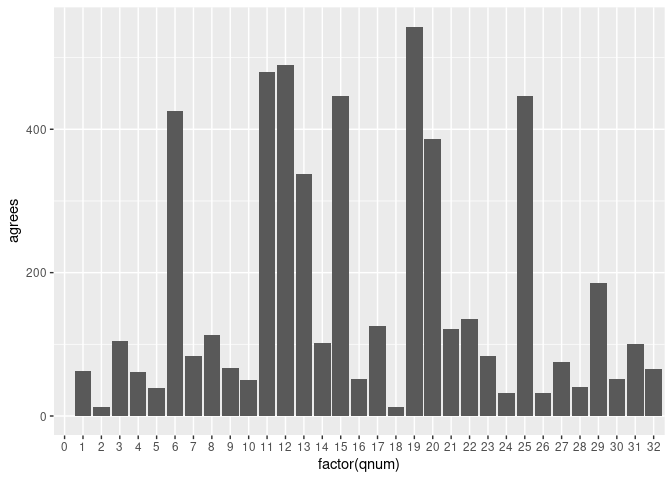
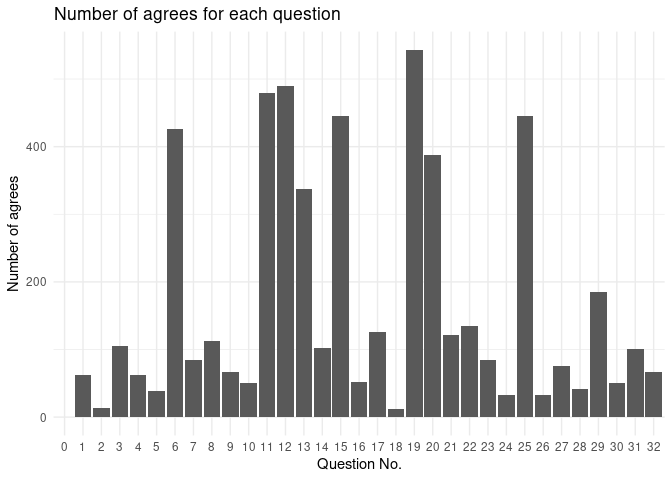
Improving plot

diff --git a/proposal/proposal.md b/proposal/proposal.md
@@ -113,7 +113,13 @@ responses_joined_completed %>%
   summarise(agrees = sum(answer %in% c("Strongly Agree", "Agree"), na.rm = TRUE)) %>%
   arrange(desc(agrees)) %>%
   ggplot() +
-  geom_col(mapping = aes(x = factor(qnum), y = agrees))
+  geom_col(mapping = aes(x = factor(qnum), y = agrees)) +
+  labs(
+    x = "Question No.",
+    y = "Number of agrees",
+    title = "Number of agrees for each question"
+  ) +
+  theme_minimal()
 ```
 
 ![](proposal_files/figure-gfm/number-agree-1.png)<!-- -->
